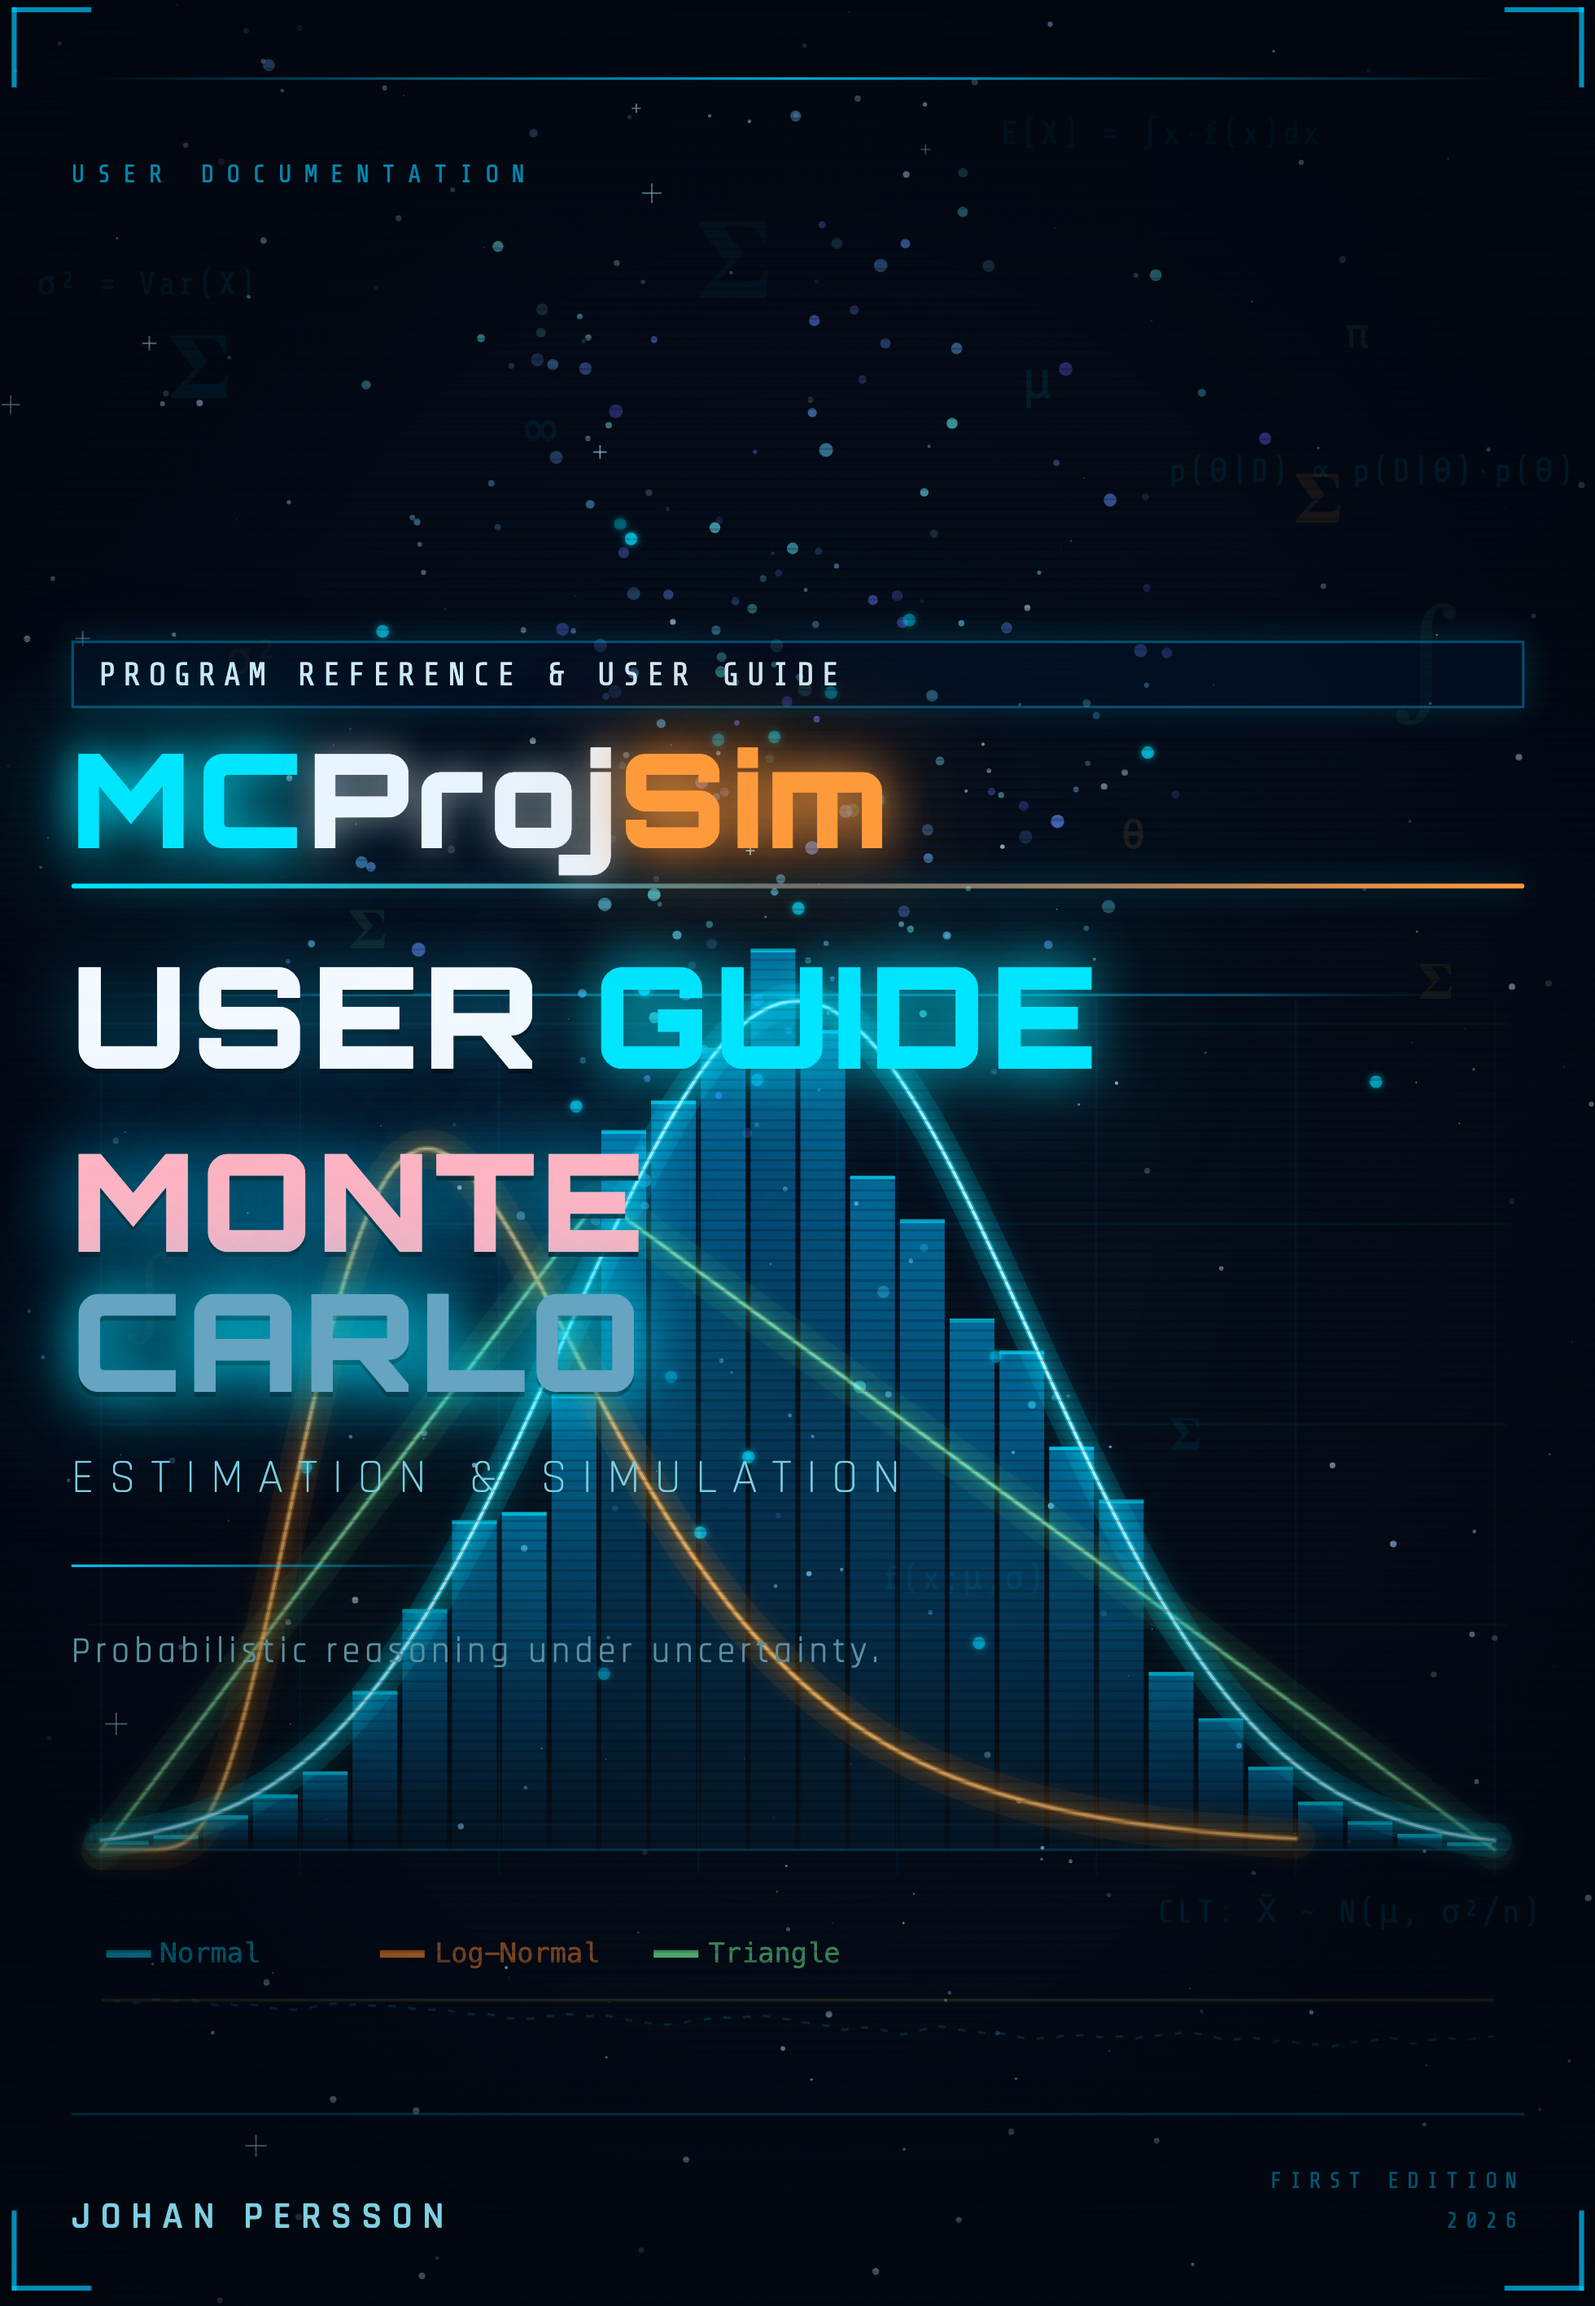
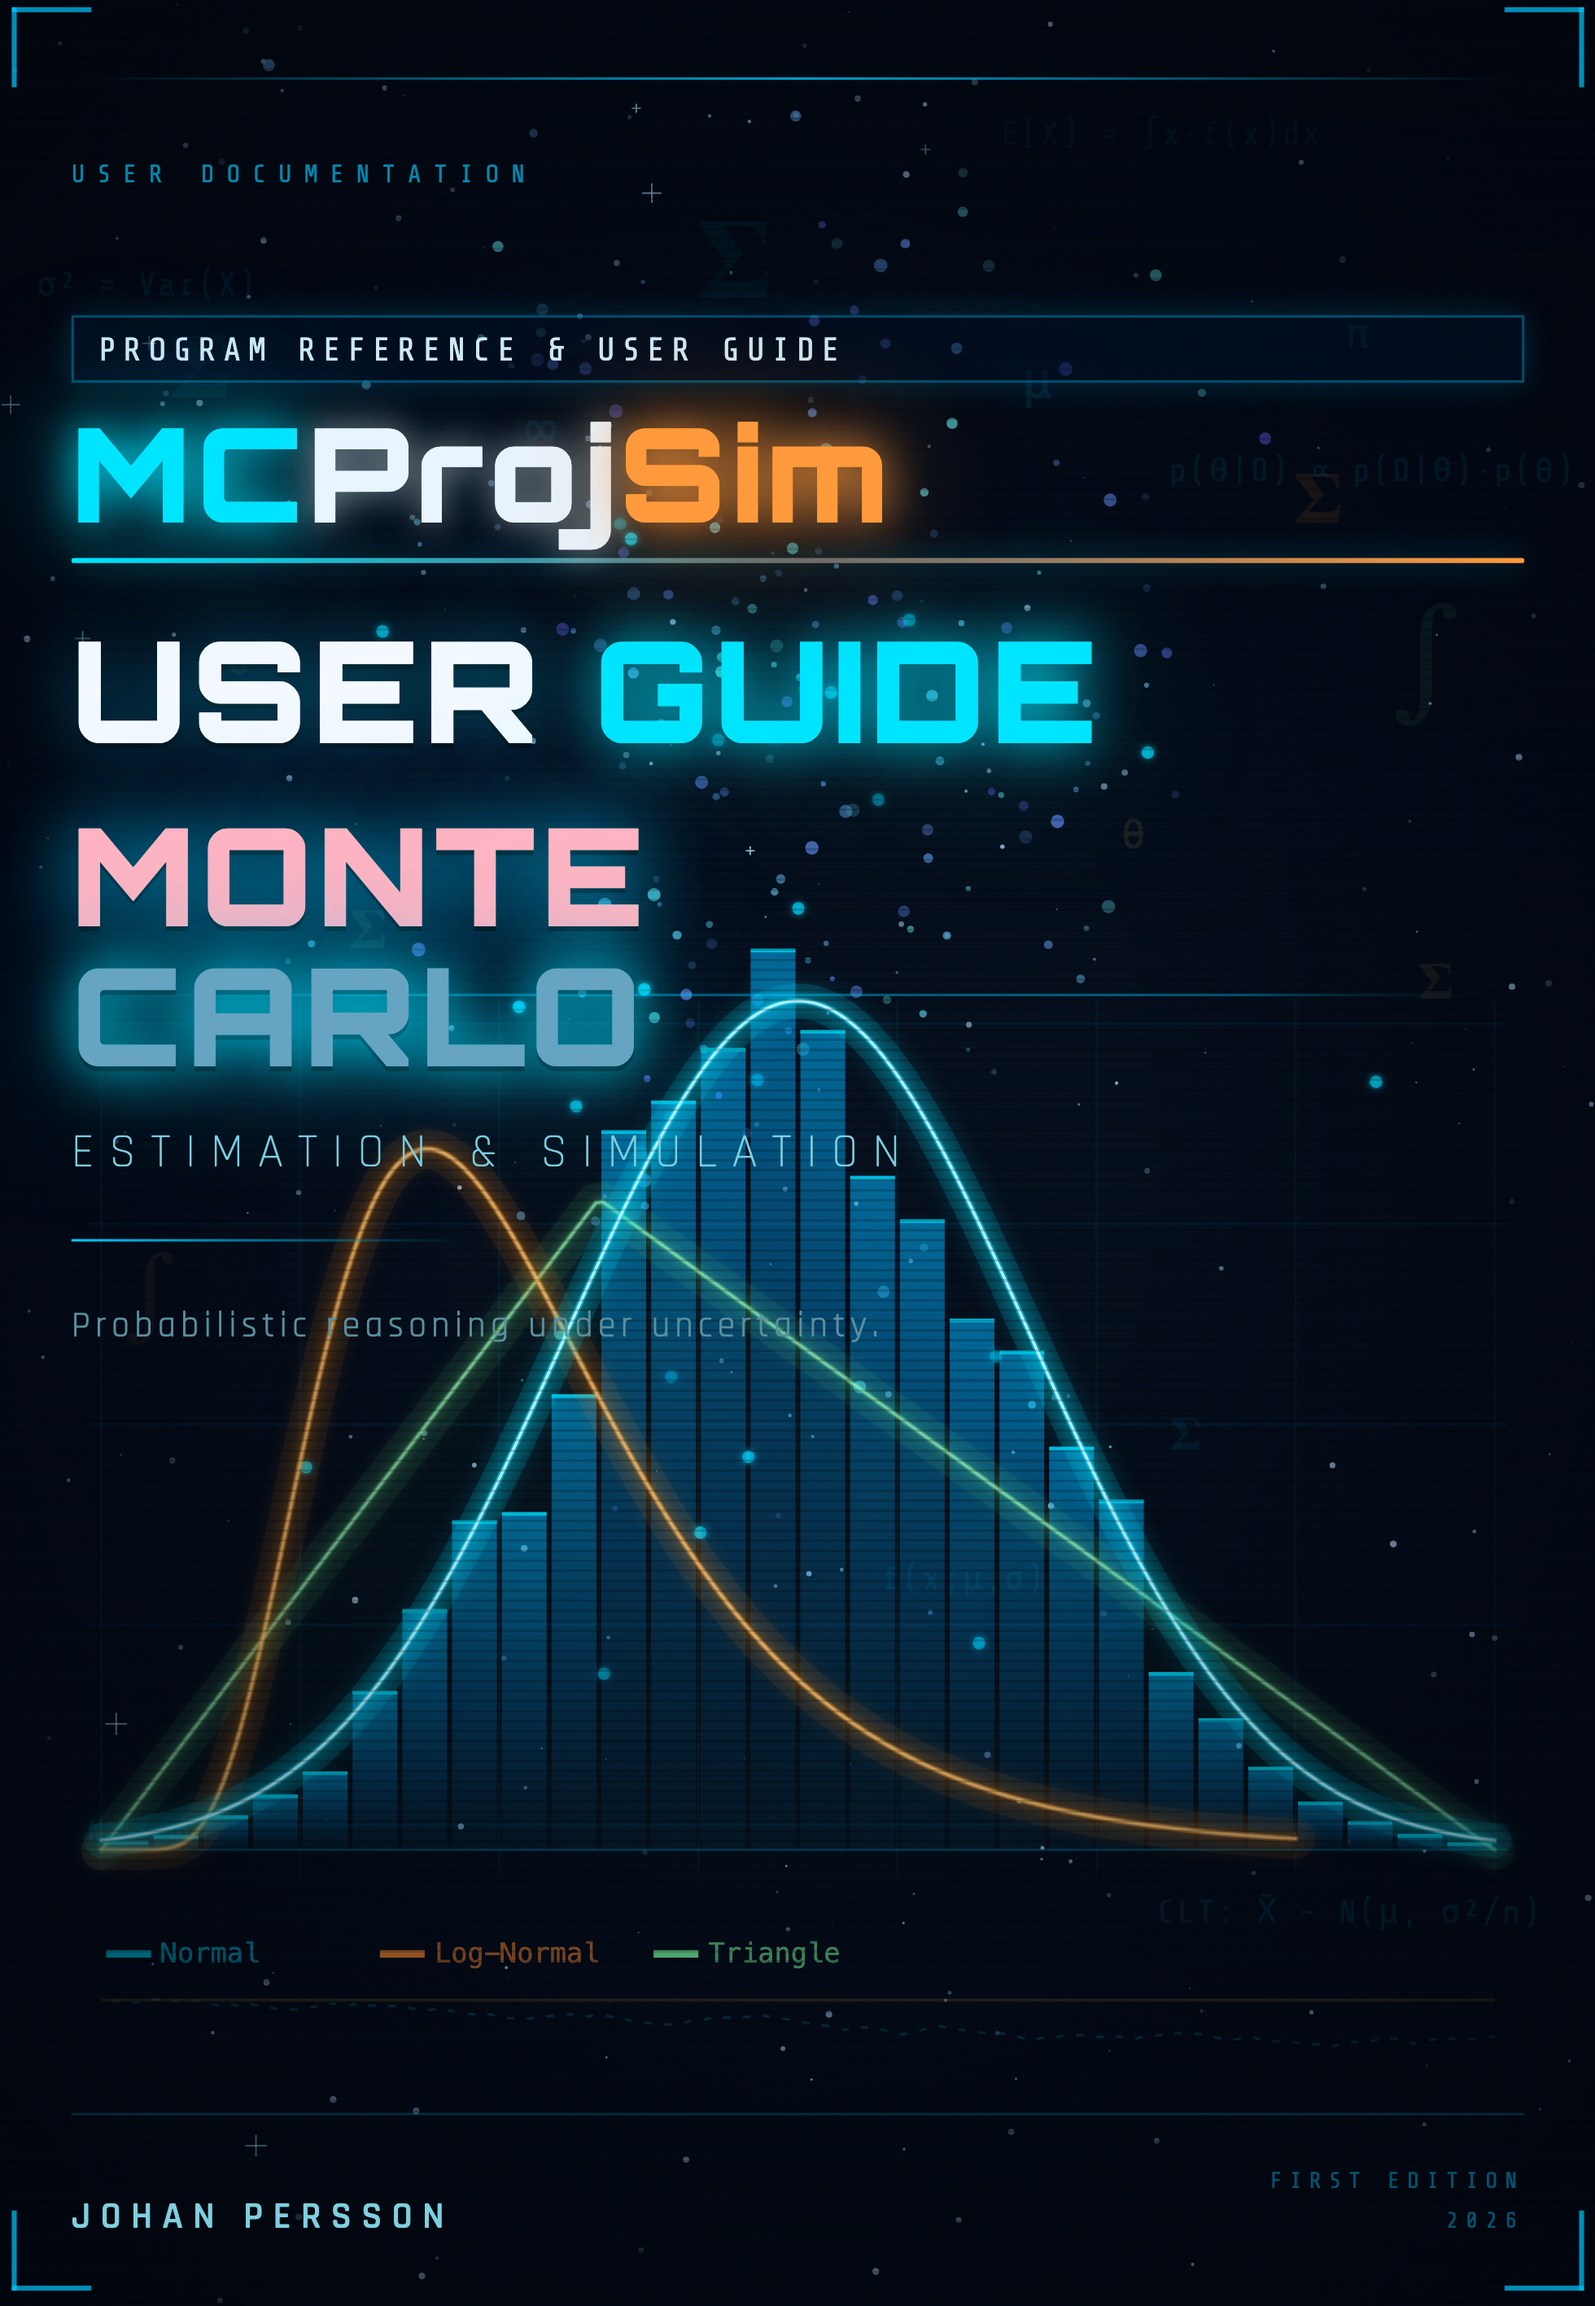
Minor adjustment of user guide cover image

Changed region(s): [[0.0, 0.1242, 0.7158, 0.6212]]

diff --git a/assets/fig-user-guide-cover.html b/assets/fig-user-guide-cover.html
@@ -340,6 +340,21 @@
       0 0 22px rgba(0,229,255,0.9),
       0 0 70px rgba(0,229,255,0.35);
   }
+
+  .content-shift {
+    flex: 1;
+    display: flex;
+    flex-direction: column;
+    transform: translateY(-130px);
+  }
+
+  .hero-copy {
+    flex: 1;
+    display: flex;
+    flex-direction: column;
+    justify-content: center;
+    padding: 30px 0;
+  }
 </style>
 </head>
 <body>
@@ -377,24 +392,26 @@
     <div class="top-rule"></div>
     <div class="series-label">User Documentation</div>
 
-    <div style="flex:1; display:flex; flex-direction:column; justify-content:center; padding: 30px 0;">
+    <div class="content-shift">
+      <div class="hero-copy">
 
-      <!-- MCProjSim — hero program name -->
-      <div class="program-label">Program Reference &amp; User Guide</div>
-      <div class="program-name">
-        <span class="mc">MC</span><span class="proj">Proj</span><span class="sim">Sim</span>
-      </div>
-      <div class="program-underline"></div>
+        <!-- MCProjSim — hero program name -->
+        <div class="program-label">Program Reference &amp; User Guide</div>
+        <div class="program-name">
+          <span class="mc">MC</span><span class="proj">Proj</span><span class="sim">Sim</span>
+        </div>
+        <div class="program-underline"></div>
 
-      <!-- Book title below -->
-      <!-- <div class="book-about">A complete guide to</div> -->
-      <div class="guide-title">User <span class="accent">Guide</span></div>
-      <div class="main-title" data-text="MONTE">MONTE</div>
-      <div class="main-title" data-text="CARLO"><span class="highlight">CARLO</span></div>
-      <div class="subtitle">Estimation &amp; Simulation</div>
-      <div class="divider"></div>
-      <div class="tagline">
-        Probabilistic reasoning under uncertainty.<br>
+        <!-- Book title below -->
+        <!-- <div class="book-about">A complete guide to</div> -->
+        <div class="guide-title">User <span class="accent">Guide</span></div>
+        <div class="main-title" data-text="MONTE">MONTE</div>
+        <div class="main-title" data-text="CARLO"><span class="highlight">CARLO</span></div>
+        <div class="subtitle">Estimation &amp; Simulation</div>
+        <div class="divider"></div>
+        <div class="tagline">
+          Probabilistic reasoning under uncertainty.<br>
+        </div>
       </div>
     </div>
 
@@ -404,7 +421,7 @@
         FIRST EDITION<br>
         2026
       </div>
-    </div>
+      </div>
   </div>
 
   </div>
